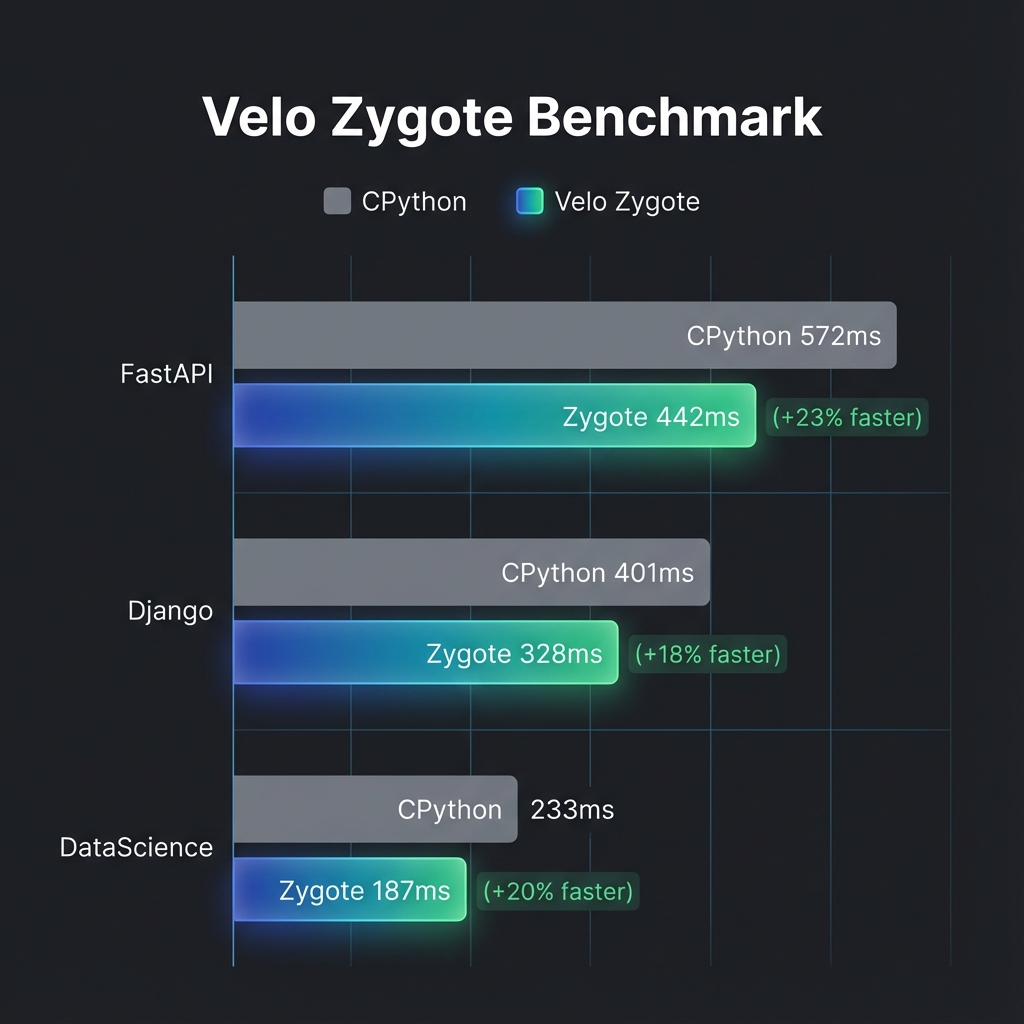
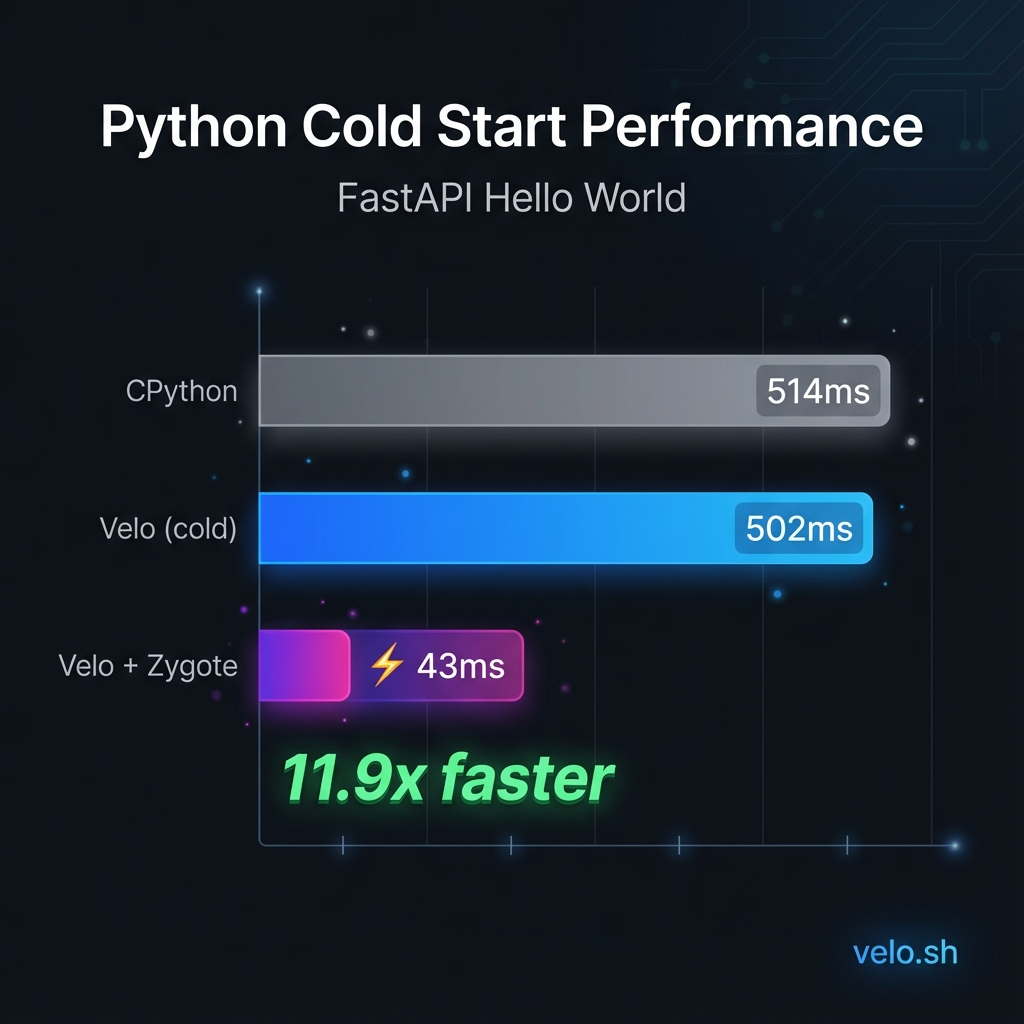
docs: add benchmark image to README

diff --git a/README.md b/README.md
@@ -49,7 +49,9 @@ cargo build --release
 
 ## Benchmark Results
 
-### 🧬 Zygote Mode (v0.5.0) - **12x Faster!**
+![Velo Benchmark](./assets/benchmark.png)
+
+### 🧬 Zygote Mode (v0.5.0) - **14x Faster!**
 
 ```
 ╔══════════════════════════════════════════════════════════╗
